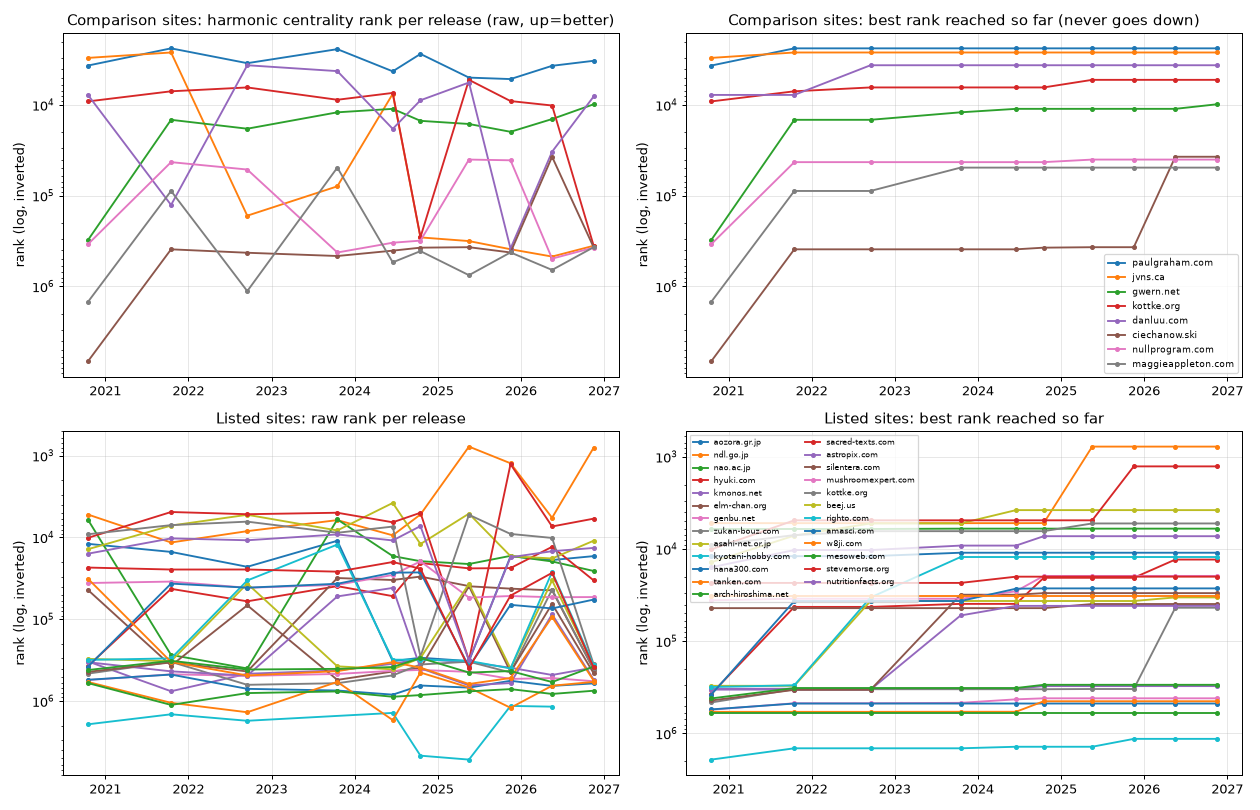
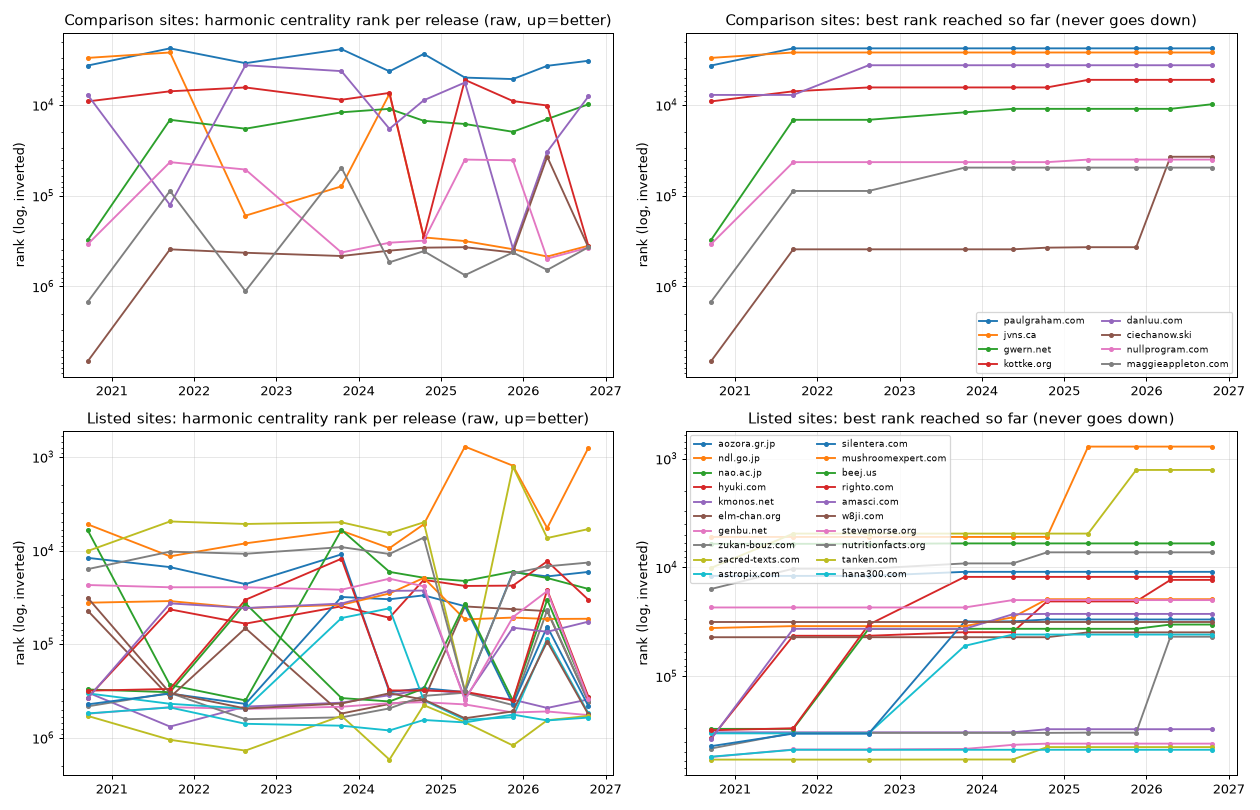
注目度検証: plot で2枚とも再生成、Range応答の確認(#55)

diff --git a/scripts/attention/attention_probe.py b/scripts/attention/attention_probe.py
@@ -4,7 +4,10 @@
   ranks   RELEASE...  Common Crawl のドメイン版 ranks の先頭 MB を Range 取得して var/attention/dom/ に保存
   lookup  DOMAIN...   取得済みの ranks から指定ドメインの順位を引き、var/attention/ranks.json に保存
   wayback DOMAIN...   Wayback CDX から各 URL の初回保存日(年)を取り var/attention/wb/ に保存
-  plot                取得済みデータから累計・最高順位のグラフ(PNG)を作る(matplotlib が必要)
+  plot [SITE...] [--vs COMPARE...]
+                      var/attention/ に rank_runmax.png(順位の生値と到達した最高順位、掲載サイト群と比較サイト群の2x2)と
+                      wayback_cum.png(累計ページ数と正規化)を作る。matplotlib が必要。
+                      SITE/COMPARE は lookup 済みのドメイン(省略時は全て1群)。Wayback は wb/ の取得済み全て
 
 生データは var/ 配下(.gitignore 済み)に置き、コミットしない。
 実行例: uv run python3 scripts/attention/attention_probe.py ranks cc-main-2026-aug-sep-oct
@@ -54,10 +57,14 @@ def cmd_ranks(releases):
     os.makedirs(f"{OUT}/dom", exist_ok=True)
     for r in releases:
         url = f"{BASE}/{r}/domain/{r}-domain-ranks.txt.gz"
-        with get(url, {"Range": f"bytes=0-{RANGE_MB * 10**6 - 1}"}) as resp, open(f"{OUT}/dom/{r}.gz", "wb") as f:
+        with get(url, {"Range": f"bytes=0-{RANGE_MB * 10**6 - 1}"}) as resp:
+            if resp.status != 206:   # Range が無視されると全体(数GB)が来るので読まずに中止
+                sys.exit(f"{r}: expected HTTP 206 but got {resp.status}; aborting without reading the body")
+            f = open(f"{OUT}/dom/{r}.gz", "wb")
             n = 0
             while chunk := resp.read(1 << 20):
                 f.write(chunk); n += len(chunk)
+            f.close()
         print(r, n, "bytes")
         time.sleep(INTERVAL)
 
@@ -98,9 +105,48 @@ def cmd_wayback(domains, limit=30000):
         time.sleep(5)
 
 
-def cmd_plot():
+def release_key(name):
+    """cc-main-2024-feb-apr-may -> (2024, 5)。2023-24-sep-nov-feb のように年が2つなら後ろの年。末尾の月で並べる。"""
+    mons = "jan feb mar apr may jun jul aug sep oct nov dec".split()
+    t = name.replace("cc-main-", "").split("-")
+    nums = [x for x in t if x.isdigit()]
+    year = int(nums[0]) if len(nums) == 1 else 2000 + int(nums[1])
+    return year + (mons.index(t[-1]) + 0.5) / 12
+
+
+def cmd_plot(args):
     import matplotlib; matplotlib.use("Agg")
     import matplotlib.pyplot as plt
+    sites, cmp = (args[:args.index("--vs")], args[args.index("--vs") + 1:]) if "--vs" in args else (args, [])
+    data = json.load(open(f"{OUT}/ranks.json"))
+    rels = sorted(data, key=release_key)
+    xs = [release_key(r) for r in rels]
+
+    def series(d):
+        return [data[r]["found"].get(d, {}).get("hc_pos") for r in rels]
+
+    def runmax(v):
+        out, best = [], None
+        for x in v:
+            if x is not None and (best is None or x < best): best = x
+            out.append(best)
+        return out
+
+    def draw(a, doms, fn, title):
+        for d in doms:
+            pts = [(x, y) for x, y in zip(xs, fn(series(d))) if y]
+            if pts: a.plot(*zip(*pts), marker="o", ms=3, label=d)
+        a.set_yscale("log"); a.invert_yaxis(); a.set_title(title); a.grid(alpha=.3); a.set_ylabel("rank (log, inverted)")
+
+    groups = [("Comparison sites", cmp), ("Listed sites", sites)] if cmp else [("Sites", sites)]
+    fig, ax = plt.subplots(len(groups), 2, figsize=(14, 4.5 * len(groups)), squeeze=False)
+    for row, (name, doms) in zip(ax, groups):
+        draw(row[0], doms, lambda v: v, f"{name}: harmonic centrality rank per release (raw, up=better)")
+        draw(row[1], doms, runmax, f"{name}: best rank reached so far (never goes down)")
+        row[1].legend(fontsize=7, ncol=2)
+    fig.tight_layout(); fig.savefig(f"{OUT}/rank_runmax.png", dpi=90)
+    print("saved", f"{OUT}/rank_runmax.png")
+
     cum = {}
     for f in glob.glob(f"{OUT}/wb/*.txt"):
         ts = [l.strip() for l in open(f) if re.fullmatch(r"\d{14}", l.strip())]
@@ -108,16 +154,22 @@ def cmd_plot():
         c = collections.Counter(int(t[:4]) for t in ts); run = 0; ys = []; ss = []
         for y in range(min(c), time.gmtime().tm_year + 1):
             run += c.get(y, 0); ys.append(y); ss.append(run)
-        cum[os.path.basename(f)[:-4]] = (ys, ss)
-    fig, ax = plt.subplots(figsize=(8, 5))
-    for d, (ys, ss) in cum.items(): ax.plot(ys, ss, marker="o", ms=3, label=d)
-    ax.set_yscale("log"); ax.legend(fontsize=7); ax.grid(alpha=.3)
-    ax.set_title("cumulative distinct HTML pages first archived (Wayback)")
-    fig.savefig(f"{OUT}/wayback_cum.png", dpi=90)
+        cum[os.path.basename(f)[:-4]] = (ys, ss, len(ts))
+    fig, ax = plt.subplots(1, 2, figsize=(14, 5))
+    for d, (ys, ss, n) in cum.items():
+        ax[0].plot(ys, ss, marker="o", ms=3, label=f"{d} ({n})")
+        ax[1].plot(ys, [v / ss[-1] for v in ss], label=d)
+    ax[0].set_yscale("log"); ax[0].legend(fontsize=7); ax[0].grid(alpha=.3)
+    ax[0].set_title("Wayback: cumulative distinct HTML pages first archived by year")
+    ax[1].set_title("same, normalized to final"); ax[1].grid(alpha=.3)
+    fig.tight_layout(); fig.savefig(f"{OUT}/wayback_cum.png", dpi=90)
     print("saved", f"{OUT}/wayback_cum.png")
-    # 最高順位(running max)は ranks.json をリリース順に並べて min を取るだけ: best = min(hc_pos so far)
 
 
 if __name__ == "__main__":
     cmd, args = (sys.argv[1], sys.argv[2:]) if len(sys.argv) > 1 else ("", [])
-    {"ranks": cmd_ranks, "lookup": cmd_lookup, "wayback": cmd_wayback}.get(cmd, lambda a: cmd_plot() if cmd == "plot" else print(__doc__))(args) if cmd != "plot" else cmd_plot()
+    cmds = {"ranks": cmd_ranks, "lookup": cmd_lookup, "wayback": cmd_wayback, "plot": cmd_plot}
+    if cmd in cmds:
+        cmds[cmd](args)
+    else:
+        print(__doc__)

diff --git a/docs/ideas/attention-feasibility.md b/docs/ideas/attention-feasibility.md
@@ -102,12 +102,15 @@ site_attention(site_id, metric, observed_at, value)   -- 主キー(site_id, metr
 標準ライブラリのみ（グラフ作成だけ matplotlib）。生データは `var/attention/`（`.gitignore` 済み）に置き、コミットしない。UA は `MiseResearchBot/0.1 (+https://github.com/kako-jun/mise)` で、Common Crawl は 2 秒間隔、Wayback は 5 秒間隔、503/504 は 10 秒から倍々（上限 300 秒・最大 5 回）で再試行する。
 
 ```
-# 順位ファイルの先頭 200MB を取得し(RANGE_MB で変更可)、ドメインを引く
+# 順位ファイルの先頭 200MB を取得し(RANGE_MB で変更可。Range に 206 が返らなければ全体を読まず中止)、ドメインを引く
 uv run python3 -I scripts/attention/attention_probe.py ranks cc-main-2026-aug-sep-oct cc-main-2025-sep-oct-nov
-uv run python3 -I scripts/attention/attention_probe.py lookup paulgraham.com gwern.net
-# Wayback の初回保存日(年ごとの累計の元)と、累計グラフ
+uv run python3 -I scripts/attention/attention_probe.py lookup paulgraham.com gwern.net elm-chan.org
+# Wayback の初回保存日(年ごとの累計の元)
 uv run python3 -I scripts/attention/attention_probe.py wayback jvns.ca elm-chan.org
-uv run --with matplotlib python3 -I scripts/attention/attention_probe.py plot
+# グラフ: rank_runmax.png(順位の生値と到達した最高順位。--vs の前が掲載サイト群、後が比較サイト群)と wayback_cum.png を var/attention/ に出力
+uv run --with matplotlib python3 -I scripts/attention/attention_probe.py plot elm-chan.org --vs paulgraham.com gwern.net
 ```
+
+docs/ideas/attention/ の 2 枚は、この `plot` で（10 公開分を取得・`lookup` 済みの状態から）再生成できる。
 
 施設内プロキシ配下では、Python 3.13 の証明書検証が通らない場合に `MISE_RELAX_TLS_STRICT=1`（X509 strict だけを外す）と、`SSL_CERT_FILE` に CA バンドルを指定する。
